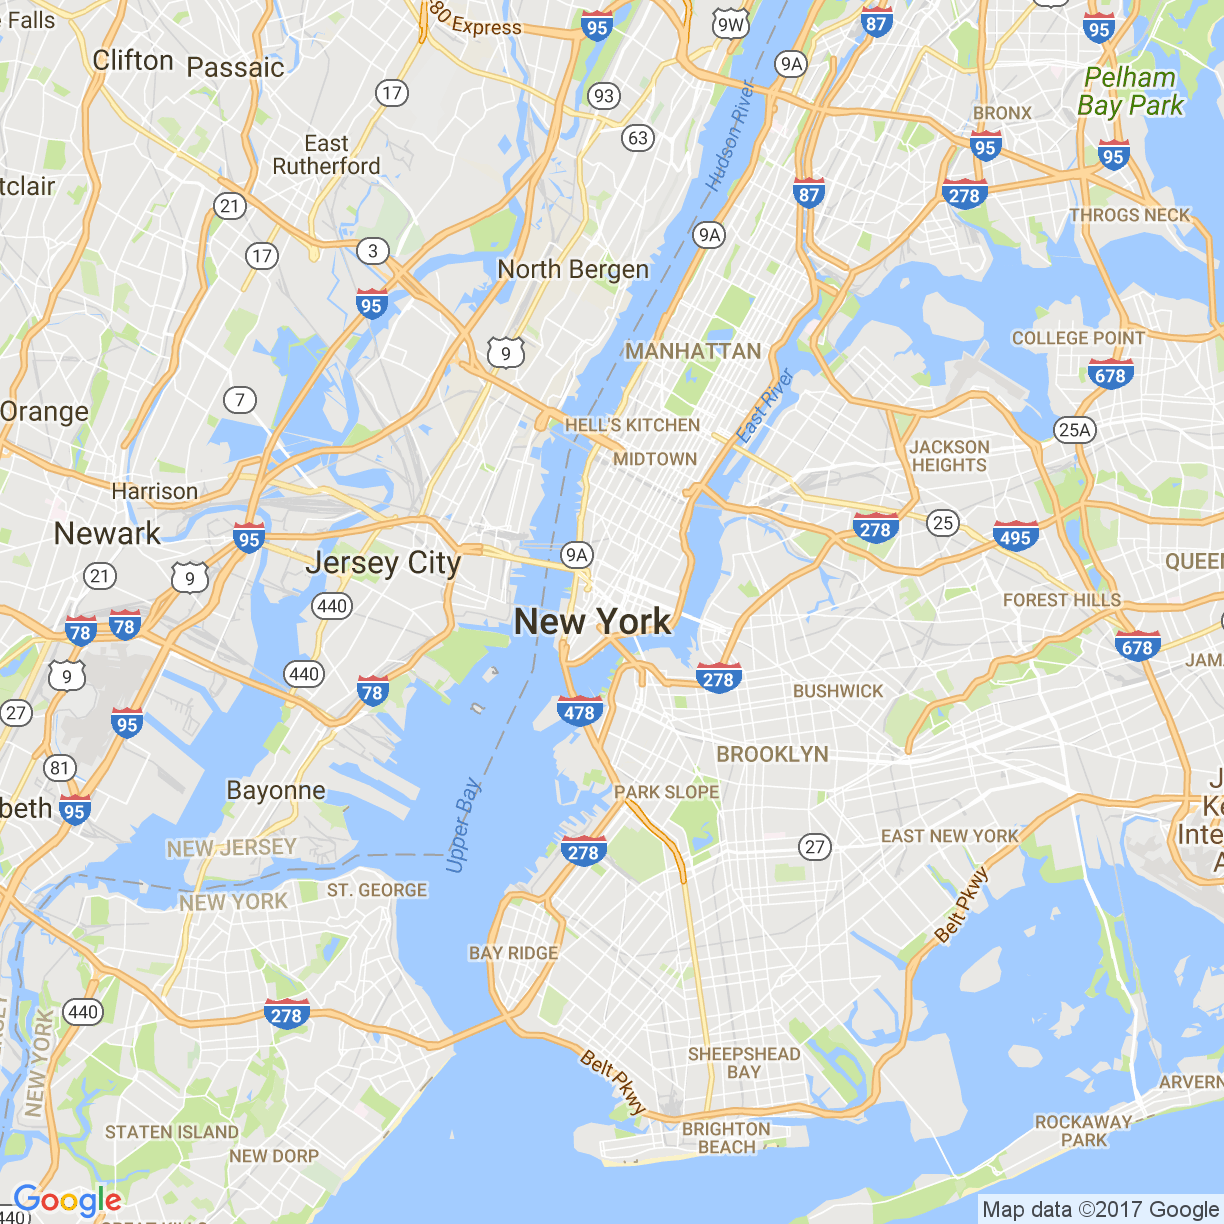
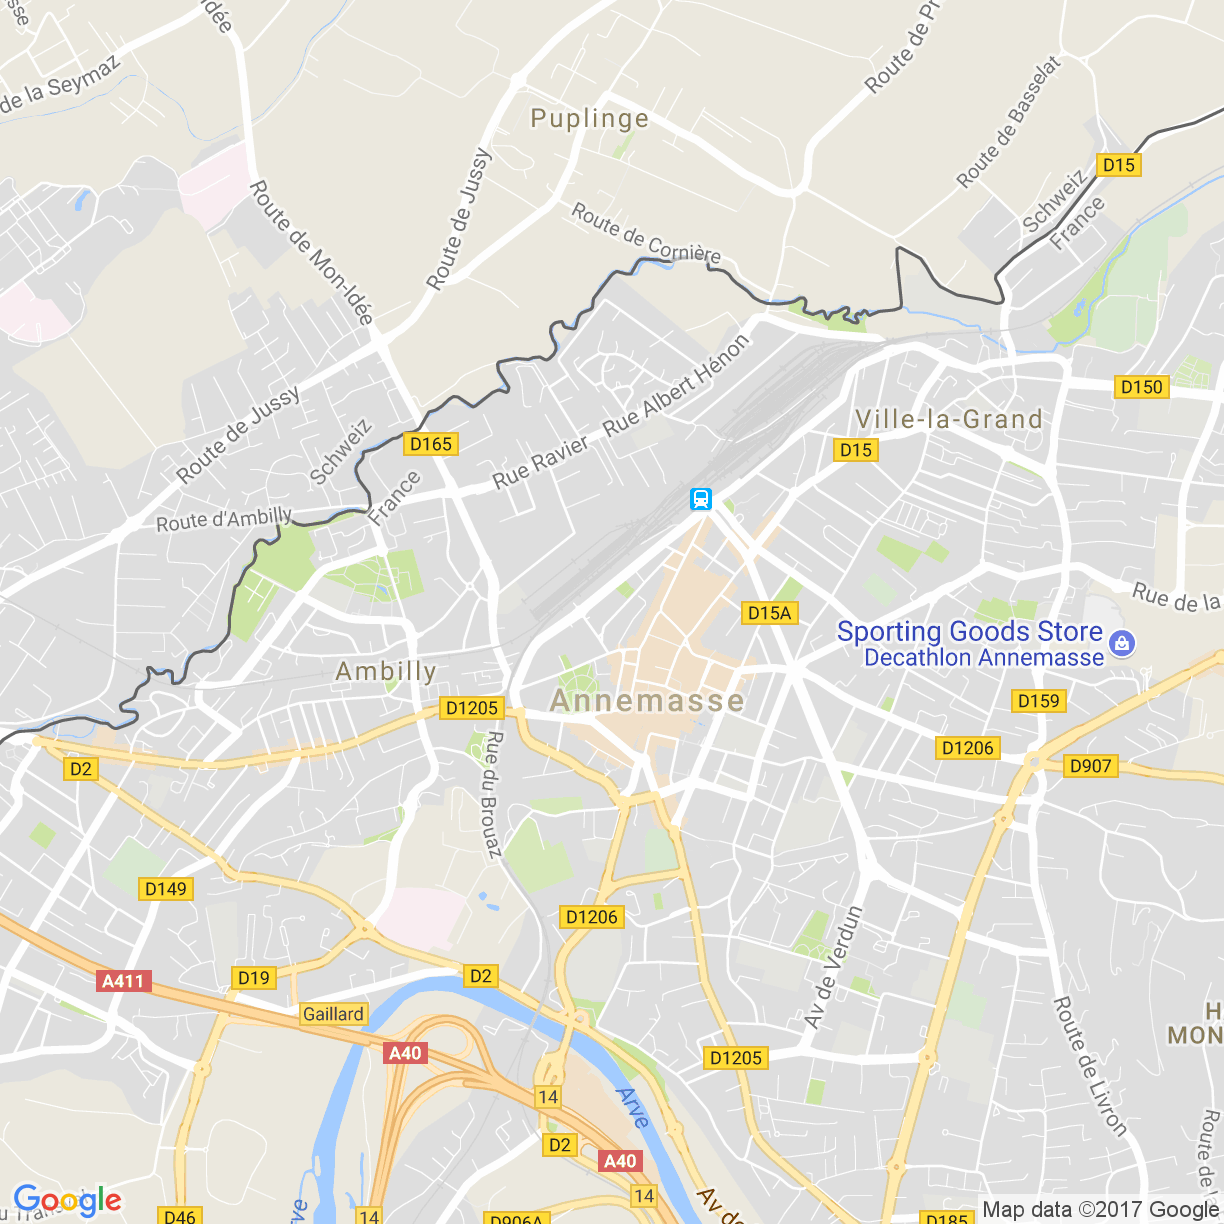
Changed default spot location.

diff --git a/era-geocoding/src/main/java/org/heliosphere/era/geocoding/sample/GeocodingSample.java b/era-geocoding/src/main/java/org/heliosphere/era/geocoding/sample/GeocodingSample.java
@@ -23,7 +23,7 @@ import com.google.maps.model.GeocodingResult;
 public class GeocodingSample
 {
 	/**
-	 * Google Maps API key.
+	 * Google Maps API key for Christophe Resse.
 	 */
 	@SuppressWarnings("nls")
 	private final static String GOOGLE_API_KEY = "AIzaSyDJsE-0pbKHV2NU1golO1VVZz5OZBnInTk";
@@ -40,6 +40,7 @@ public class GeocodingSample
 			results = GeocodingApi.geocode(context, "11 rue docteur coquand 74100 annemasse france").await();
 			Gson gson = new GsonBuilder().setPrettyPrinting().create();
 			System.out.println(gson.toJson(results[0].addressComponents));
+			System.out.println(gson.toJson(results[0].geometry));
 		}
 		catch (ApiException e)
 		{

diff --git a/era-geocoding/src/main/java/org/heliosphere/era/geocoding/sample/DisplayStaticGoogleMap.java b/era-geocoding/src/main/java/org/heliosphere/era/geocoding/sample/DisplayStaticGoogleMap.java
@@ -23,17 +23,21 @@ import javax.swing.JLabel;
 
 public class DisplayStaticGoogleMap
 {
-
+	/**
+	 * Main entry point.
+	 * <p>
+	 * @param arguments Command line arguments. 
+	 */
 	@SuppressWarnings("nls")
-	public static void main(String[] args)
+	public static void main(String[] arguments)
 	{
 		JFrame test = new JFrame("Google Maps");
 
 		try
 		{
 			String destinationFile = "image.jpg";
-			String latitude = "40.714728";
-			String longitude = "-73.998672";
+			String latitude = "46.19584589999999";
+			String longitude = "6.2327423";
 			String imageUrl = "https://maps.googleapis.com/maps/api/staticmap?center="
 					+ latitude
 					+ ","
